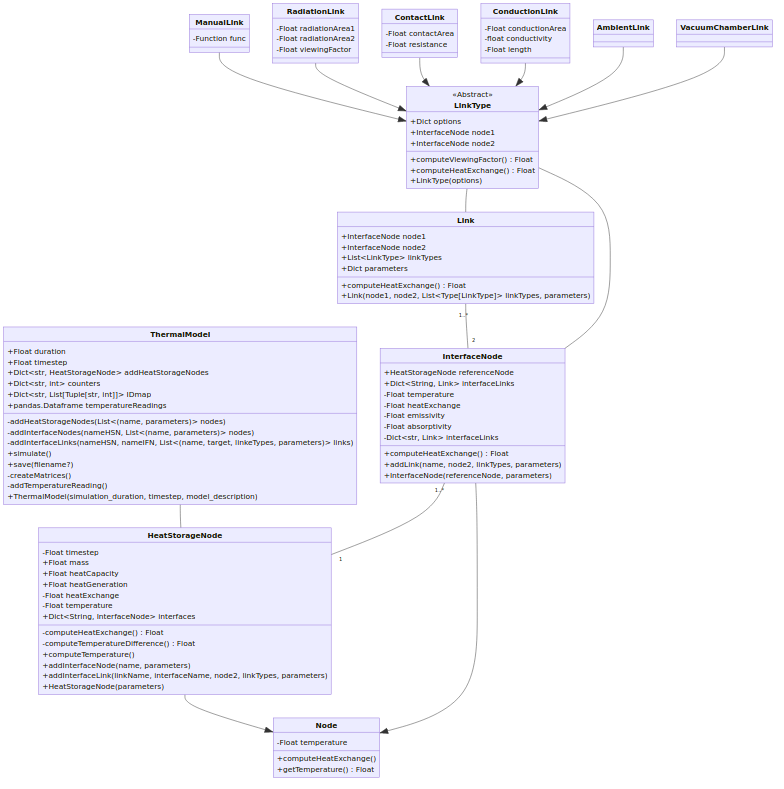
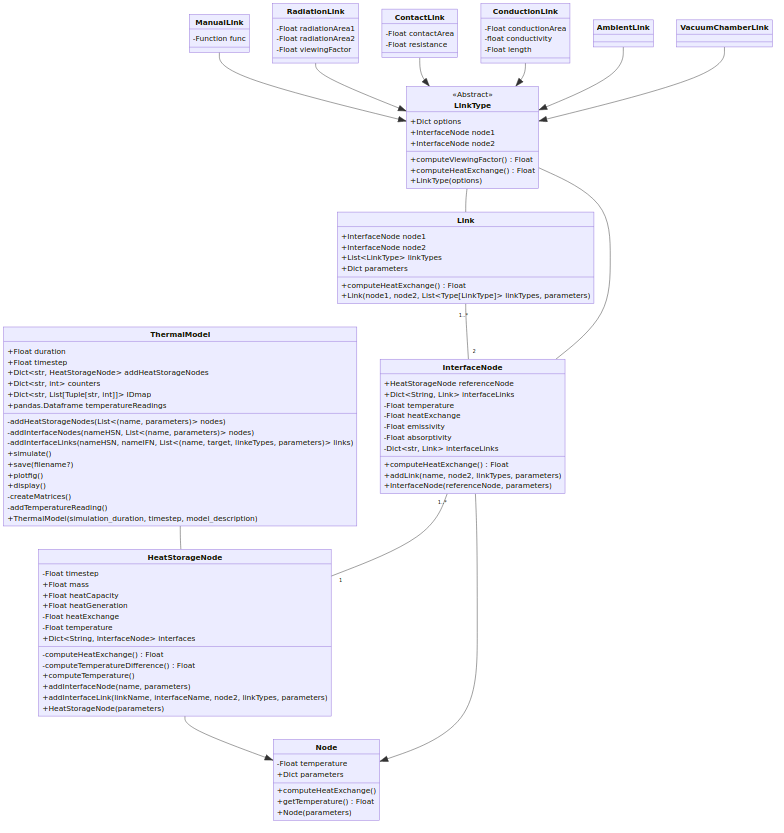
add ability to plot temperatures

diff --git a/thermalmodel/thermalmodel.py b/thermalmodel/thermalmodel.py
@@ -5,6 +5,8 @@ import numpy as np
 import pandas as pd
 import itertools
 
+import plotly.express as px
+
 from .nodes import HeatStorageNode, InterfaceNode, LinkType, Node
 from .links import Link, ManualLink
 
@@ -197,6 +199,20 @@ class ThermalModel():
         print(f'Saving data to file {filename}')
         self.temperatureReadings.to_csv(filename, index=False)
 
+    def plotfig(self):
+        """Make a plot of the temperatures evolving"""
+        # rearrange dataframe for plotly
+        df = pd.DataFrame(columns=['time', 'temperature', 'HSN'])
+        for col in self.temperatureReadings.columns[1:]:
+            # ignoring first column 'time'
+            df = pd.concat([ df, pd.DataFrame({
+                'time': self.temperatureReadings['time'].tolist(),
+                'temperature': self.temperatureReadings[col].tolist(),
+                'HSN': col,
+            }) ])
+        fig = px.line(df, x='time', y='temperature', color='HSN')
+        fig.show()
+
     def _addTemperatureReading(self, reading: Dict[str, List[float]]):
         self.temperatureReadings = pd.concat(
             [ self.temperatureReadings, pd.DataFrame(reading) ],
@@ -204,6 +220,7 @@ class ThermalModel():
         )
 
     def display(self):
+        """Print the internal representation of the thermal model. Mainly needed for debugging purposes."""
         indentspaces = {
             'HSN': 0,
             'IFN': 4,

diff --git a/example-simulation.py b/example-simulation.py
@@ -188,4 +188,5 @@ thermalmodel.display()
 # ~~~~~~~~~~~~~~~~~~~~~~~~~~~~~~~~~~~~~~~~~~~~~~~~~~~~~~~~~~~~~~~~~~~~~~~~~~~~~~
 
 thermalmodel.simulate()
+thermalmodel.plotfig()
 thermalmodel.save()
